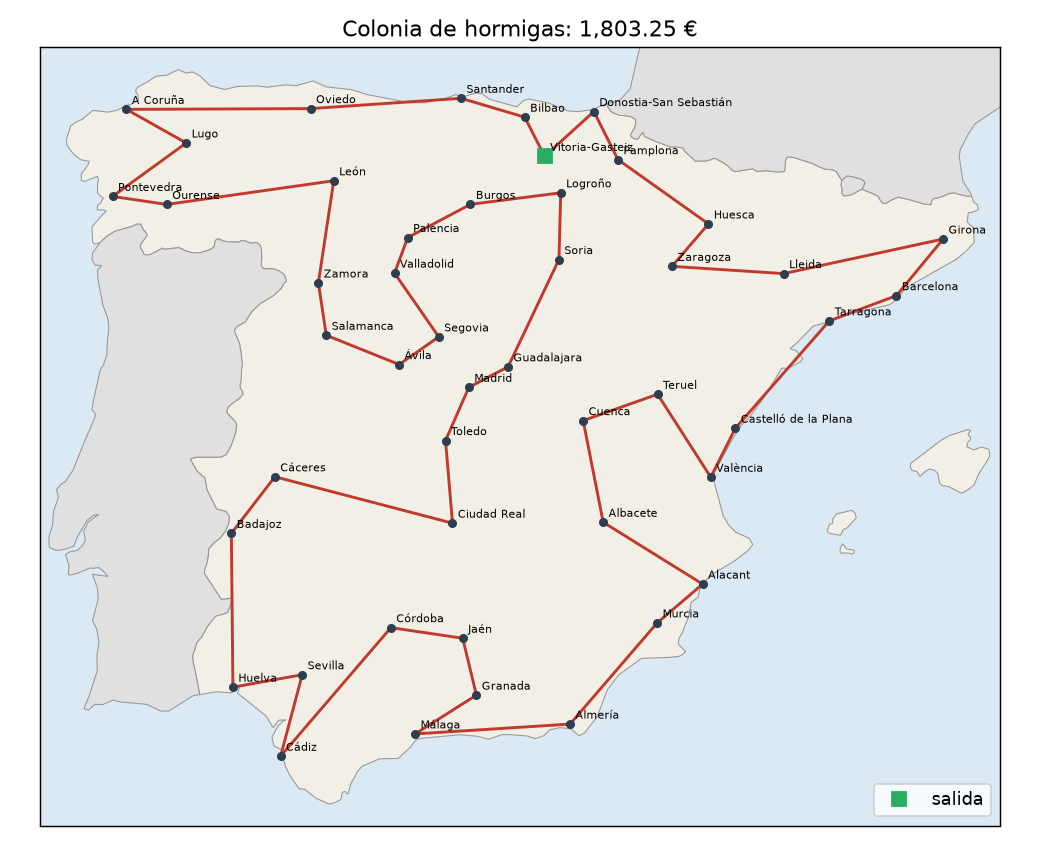
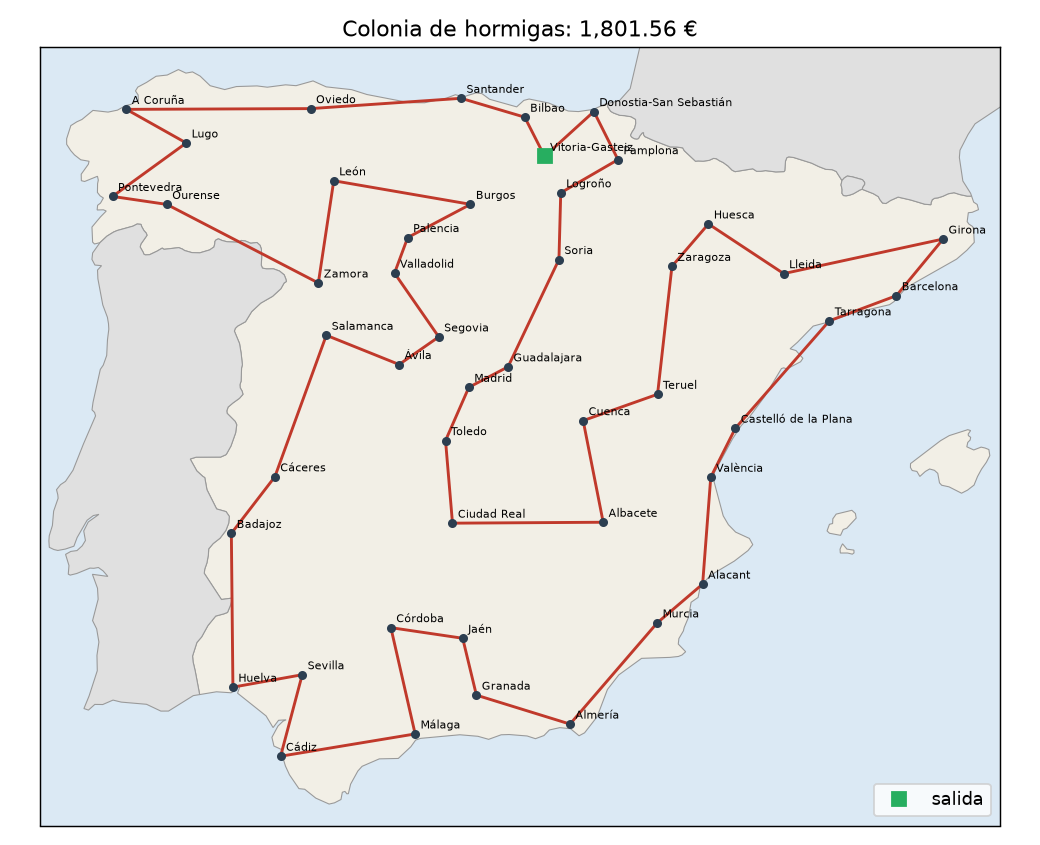
Resultados de la parte 2 con los peajes verificados

diff --git a/resultados/parte2/valor_hora.md b/resultados/parte2/valor_hora.md
@@ -1,25 +1,25 @@
 | Valor hora (€/h) | km | horas | peajes (€) | combustible (€) | costo total (€) | aristas distintas |
 |---|---|---|---|---|---|---|
-| 0 | 6,379.3 | 80.75 | 22.79 | 567.53 | 590.32 | 0 |
-| 2.5 | 6,379.3 | 80.75 | 22.79 | 567.53 | 792.19 | 0 |
-| 5 | 6,379.3 | 80.75 | 22.79 | 567.53 | 994.05 | 0 |
-| 7.5 | 6,416.6 | 79.85 | 26.01 | 570.85 | 1,195.73 | 10 |
-| 10 | 6,335.4 | 79.52 | 36.08 | 563.62 | 1,394.91 | 10 |
-| 15 | 6,335.4 | 79.52 | 36.08 | 563.62 | 1,792.51 | 10 |
-| 20 | 6,242.3 | 78.32 | 67.66 | 555.34 | 2,189.49 | 15 |
-| 25 | 6,242.3 | 78.32 | 67.66 | 555.34 | 2,581.11 | 15 |
-| 30 | 6,247.0 | 78.05 | 74.97 | 555.76 | 2,972.24 | 15 |
-| 40 | 6,247.0 | 78.05 | 74.97 | 555.76 | 3,752.74 | 15 |
-| 50 | 6,247.0 | 78.05 | 74.97 | 555.76 | 4,533.25 | 15 |
-| 75 | 6,247.0 | 78.05 | 74.97 | 555.76 | 6,484.51 | 15 |
-| 100 | 6,247.0 | 78.05 | 74.97 | 555.76 | 8,435.77 | 15 |
-| 150 | 6,205.3 | 77.96 | 90.45 | 552.05 | 12,336.12 | 18 |
-| 200 | 6,205.3 | 77.96 | 90.45 | 552.05 | 16,234.0 | 18 |
+| 0 | 6,463.9 | 82.03 | 21.73 | 575.05 | 596.78 | 0 |
+| 2.5 | 6,363.4 | 80.27 | 31.56 | 566.11 | 798.36 | 14 |
+| 5 | 6,363.4 | 80.27 | 31.56 | 566.11 | 999.04 | 14 |
+| 7.5 | 6,363.4 | 80.27 | 31.56 | 566.11 | 1,199.72 | 14 |
+| 10 | 6,363.4 | 80.27 | 31.56 | 566.11 | 1,400.41 | 14 |
+| 15 | 6,315.5 | 79.3 | 48.48 | 561.85 | 1,799.77 | 13 |
+| 20 | 6,242.3 | 78.32 | 69.83 | 555.34 | 2,191.66 | 17 |
+| 25 | 6,242.3 | 78.32 | 69.83 | 555.34 | 2,583.29 | 17 |
+| 30 | 6,247.0 | 78.05 | 77.2 | 555.76 | 2,974.47 | 17 |
+| 40 | 6,247.0 | 78.05 | 77.2 | 555.76 | 3,754.98 | 17 |
+| 50 | 6,247.0 | 78.05 | 77.2 | 555.76 | 4,535.48 | 17 |
+| 75 | 6,247.0 | 78.05 | 77.2 | 555.76 | 6,486.74 | 17 |
+| 100 | 6,247.0 | 78.05 | 77.2 | 555.76 | 8,438.0 | 17 |
+| 150 | 6,205.3 | 77.96 | 94.74 | 552.05 | 12,340.41 | 19 |
+| 200 | 6,205.3 | 77.96 | 94.74 | 552.05 | 16,238.29 | 19 |
 
 Cambios de ruta (cruce exacto de las rectas de costo):
 
-- Entre h = 5 y h = 7.5 €/h: la ruta cambia en h* ≈ 7.30 €/h (ahorra 0.90 h y gasta 6.54 € más en peajes y combustible)
-- Entre h = 7.5 y h = 10 €/h: la ruta cambia en h* ≈ 8.65 €/h (ahorra 0.33 h y gasta 2.85 € más en peajes y combustible)
-- Entre h = 15 y h = 20 €/h: la ruta cambia en h* ≈ 19.48 €/h (ahorra 1.20 h y gasta 23.29 € más en peajes y combustible)
-- Entre h = 25 y h = 30 €/h: la ruta cambia en h* ≈ 28.20 €/h (ahorra 0.27 h y gasta 7.73 € más en peajes y combustible)
-- Entre h = 100 y h = 150 €/h: la ruta cambia en h* ≈ 126.68 €/h (ahorra 0.09 h y gasta 11.77 € más en peajes y combustible)
+- Entre h = 0 y h = 2.5 €/h: la ruta cambia en h* ≈ 0.51 €/h (ahorra 1.75 h y gasta 0.89 € más en peajes y combustible)
+- Entre h = 10 y h = 15 €/h: la ruta cambia en h* ≈ 12.95 €/h (ahorra 0.98 h y gasta 12.66 € más en peajes y combustible)
+- Entre h = 15 y h = 20 €/h: la ruta cambia en h* ≈ 15.28 €/h (ahorra 0.97 h y gasta 14.85 € más en peajes y combustible)
+- Entre h = 25 y h = 30 €/h: la ruta cambia en h* ≈ 28.42 €/h (ahorra 0.27 h y gasta 7.78 € más en peajes y combustible)
+- Entre h = 100 y h = 150 €/h: la ruta cambia en h* ≈ 148.85 €/h (ahorra 0.09 h y gasta 13.83 € más en peajes y combustible)

diff --git a/resultados/parte2/resumen_aco.md b/resultados/parte2/resumen_aco.md
@@ -2,17 +2,17 @@
 
 - Valor de la hora: 15.00 €/h
 - Vehículo: SEAT León 2.0 TDI 85 kW (115 CV), 5 puertas, 2024 (4.6 l/100 km, 1.934 €/l)
-- Tiempo de cómputo: 3.2 s
+- Tiempo de cómputo: 5.3 s
 
 | Concepto | Valor |
 |---|---|
-| Distancia total | 6,379.4 km |
-| Tiempo de conducción | 80.63 h |
-| Costo del tiempo | 1,209.50 € |
-| Peajes | 26.22 € |
-| Combustible | 567.53 € |
-| **Costo total** | **1,803.25 €** |
+| Distancia total | 6,372.4 km |
+| Tiempo de conducción | 79.32 h |
+| Costo del tiempo | 1,189.85 € |
+| Peajes | 44.80 € |
+| Combustible | 566.92 € |
+| **Costo total** | **1,801.56 €** |
 
 Orden del recorrido:
 
-Vitoria-Gasteiz → Bilbao → Santander → Oviedo → A Coruña → Lugo → Pontevedra → Ourense → León → Zamora → Salamanca → Ávila → Segovia → Valladolid → Palencia → Burgos → Logroño → Soria → Guadalajara → Madrid → Toledo → Ciudad Real → Cáceres → Badajoz → Huelva → Sevilla → Cádiz → Córdoba → Jaén → Granada → Málaga → Almería → Murcia → Alacant → Albacete → Cuenca → Teruel → València → Castelló de la Plana → Tarragona → Barcelona → Girona → Lleida → Zaragoza → Huesca → Pamplona → Donostia-San Sebastián → Vitoria-Gasteiz
+Vitoria-Gasteiz → Donostia-San Sebastián → Pamplona → Logroño → Soria → Guadalajara → Madrid → Toledo → Ciudad Real → Albacete → Cuenca → Teruel → Zaragoza → Huesca → Lleida → Girona → Barcelona → Tarragona → Castelló de la Plana → València → Alacant → Murcia → Almería → Granada → Jaén → Córdoba → Málaga → Cádiz → Sevilla → Huelva → Badajoz → Cáceres → Salamanca → Ávila → Segovia → Valladolid → Palencia → Burgos → León → Zamora → Ourense → Pontevedra → Lugo → A Coruña → Oviedo → Santander → Bilbao → Vitoria-Gasteiz

diff --git a/resultados/parte2/sin_2opt/resumen_aco.md b/resultados/parte2/sin_2opt/resumen_aco.md
@@ -2,17 +2,17 @@
 
 - Valor de la hora: 15.00 €/h
 - Vehículo: SEAT León 2.0 TDI 85 kW (115 CV), 5 puertas, 2024 (4.6 l/100 km, 1.934 €/l)
-- Tiempo de cómputo: 2.8 s
+- Tiempo de cómputo: 4.8 s
 
 | Concepto | Valor |
 |---|---|
-| Distancia total | 6,583.0 km |
-| Tiempo de conducción | 82.02 h |
-| Costo del tiempo | 1,230.36 € |
-| Peajes | 67.39 € |
-| Combustible | 585.65 € |
-| **Costo total** | **1,883.39 €** |
+| Distancia total | 6,663.9 km |
+| Tiempo de conducción | 82.12 h |
+| Costo del tiempo | 1,231.79 € |
+| Peajes | 97.99 € |
+| Combustible | 592.85 € |
+| **Costo total** | **1,922.63 €** |
 
 Orden del recorrido:
 
-Zamora → Salamanca → Ávila → Segovia → Valladolid → Palencia → Burgos → Vitoria-Gasteiz → Logroño → Soria → Guadalajara → Madrid → Toledo → Ciudad Real → Badajoz → Cáceres → Cádiz → Sevilla → Huelva → Córdoba → Jaén → Granada → Málaga → Almería → Murcia → Alacant → Albacete → Cuenca → Teruel → València → Castelló de la Plana → Girona → Barcelona → Tarragona → Lleida → Huesca → Zaragoza → Pamplona → Donostia-San Sebastián → Bilbao → Santander → Oviedo → León → A Coruña → Lugo → Ourense → Pontevedra → Zamora
+Oviedo → León → Palencia → Burgos → Vitoria-Gasteiz → Bilbao → Santander → Donostia-San Sebastián → Pamplona → Logroño → Soria → Guadalajara → Madrid → Toledo → Ciudad Real → Albacete → Cuenca → Teruel → Zaragoza → Huesca → Lleida → Tarragona → Barcelona → Girona → Castelló de la Plana → València → Alacant → Murcia → Almería → Granada → Jaén → Córdoba → Málaga → Cádiz → Sevilla → Huelva → Badajoz → Cáceres → Salamanca → Zamora → Valladolid → Segovia → Ávila → Ourense → Lugo → A Coruña → Pontevedra → Oviedo

diff --git a/resultados/parte2/sin_2opt/resumen_ga.md b/resultados/parte2/sin_2opt/resumen_ga.md
@@ -2,17 +2,17 @@
 
 - Valor de la hora: 15.00 €/h
 - Vehículo: SEAT León 2.0 TDI 85 kW (115 CV), 5 puertas, 2024 (4.6 l/100 km, 1.934 €/l)
-- Tiempo de cómputo: 1.4 s
+- Tiempo de cómputo: 2.2 s
 
 | Concepto | Valor |
 |---|---|
-| Distancia total | 6,986.8 km |
-| Tiempo de conducción | 88.47 h |
-| Costo del tiempo | 1,327.09 € |
-| Peajes | 38.13 € |
-| Combustible | 621.58 € |
-| **Costo total** | **1,986.80 €** |
+| Distancia total | 6,959.8 km |
+| Tiempo de conducción | 87.53 h |
+| Costo del tiempo | 1,312.93 € |
+| Peajes | 67.05 € |
+| Combustible | 619.17 € |
+| **Costo total** | **1,999.15 €** |
 
 Orden del recorrido:
 
-Cuenca → Guadalajara → Madrid → Valladolid → Palencia → León → Burgos → Vitoria-Gasteiz → Logroño → Soria → Segovia → Ávila → Toledo → Ciudad Real → Jaén → Almería → Málaga → Granada → Córdoba → Cádiz → Huelva → Sevilla → Badajoz → Cáceres → Salamanca → Zamora → Ourense → Pontevedra → Lugo → A Coruña → Oviedo → Santander → Bilbao → Donostia-San Sebastián → Pamplona → Huesca → Tarragona → Girona → Barcelona → Lleida → Zaragoza → Teruel → València → Castelló de la Plana → Alacant → Murcia → Albacete → Cuenca
+Toledo → Madrid → Guadalajara → Segovia → Ávila → Palencia → Valladolid → León → Burgos → Santander → Oviedo → Lugo → A Coruña → Pontevedra → Ourense → Zamora → Salamanca → Cáceres → Badajoz → Huelva → Cádiz → Sevilla → Córdoba → Granada → Jaén → Málaga → Almería → Murcia → Alacant → Albacete → València → Castelló de la Plana → Tarragona → Girona → Barcelona → Lleida → Pamplona → Donostia-San Sebastián → Bilbao → Vitoria-Gasteiz → Logroño → Soria → Zaragoza → Huesca → Teruel → Cuenca → Ciudad Real → Toledo

diff --git a/resultados/parte2/resumen_ga.md b/resultados/parte2/resumen_ga.md
@@ -2,17 +2,17 @@
 
 - Valor de la hora: 15.00 €/h
 - Vehículo: SEAT León 2.0 TDI 85 kW (115 CV), 5 puertas, 2024 (4.6 l/100 km, 1.934 €/l)
-- Tiempo de cómputo: 3.9 s
+- Tiempo de cómputo: 6.6 s
 
 | Concepto | Valor |
 |---|---|
-| Distancia total | 6,335.4 km |
-| Tiempo de conducción | 79.52 h |
-| Costo del tiempo | 1,192.80 € |
-| Peajes | 36.08 € |
-| Combustible | 563.62 € |
-| **Costo total** | **1,792.51 €** |
+| Distancia total | 6,263.9 km |
+| Tiempo de conducción | 78.83 h |
+| Costo del tiempo | 1,182.44 € |
+| Peajes | 60.27 € |
+| Combustible | 557.26 € |
+| **Costo total** | **1,799.97 €** |
 
 Orden del recorrido:
 
-Bilbao → Santander → Oviedo → A Coruña → Lugo → Pontevedra → Ourense → Zamora → León → Burgos → Palencia → Valladolid → Segovia → Ávila → Salamanca → Cáceres → Badajoz → Huelva → Sevilla → Cádiz → Córdoba → Jaén → Granada → Málaga → Almería → Murcia → Alacant → Albacete → Ciudad Real → Toledo → Madrid → Guadalajara → Cuenca → Teruel → València → Castelló de la Plana → Tarragona → Barcelona → Girona → Lleida → Huesca → Zaragoza → Soria → Logroño → Pamplona → Donostia-San Sebastián → Vitoria-Gasteiz → Bilbao
+Jaén → Córdoba → Ciudad Real → Albacete → Murcia → Alacant → València → Castelló de la Plana → Tarragona → Barcelona → Girona → Lleida → Huesca → Zaragoza → Teruel → Cuenca → Guadalajara → Madrid → Toledo → Ávila → Segovia → Valladolid → Palencia → Burgos → Soria → Logroño → Pamplona → Donostia-San Sebastián → Vitoria-Gasteiz → Bilbao → Santander → Oviedo → A Coruña → Pontevedra → Ourense → Lugo → León → Zamora → Salamanca → Cáceres → Badajoz → Huelva → Sevilla → Cádiz → Málaga → Almería → Granada → Jaén

diff --git a/resultados/parte2/comparacion.md b/resultados/parte2/comparacion.md
@@ -1,8 +1,8 @@
-Valor de la hora: 15 €/h. Corridas: 10. Mejor costo conocido: 1,792.51 €
+Valor de la hora: 15 €/h. Corridas: 10. Mejor costo conocido: 1,799.54 €
 
 | Configuración | Media (€) | Desv. (€) | Mejor (€) | Peor (€) | Brecha media | Veces que llega al mejor | s/corrida |
 |---|---|---|---|---|---|---|---|
-| ACO + 2-opt | 1,795.41 | 4.16 | 1,792.51 | 1,803.25 | 0.16 % | 4/10 | 3.2 |
-| ACO sin 2-opt | 1,876.73 | 18.92 | 1,841.46 | 1,899.88 | 4.70 % | 0/10 | 2.9 |
-| GA + 2-opt | 1,794.15 | 2.64 | 1,792.51 | 1,797.96 | 0.09 % | 7/10 | 4.0 |
-| GA sin 2-opt | 1,985.77 | 71.55 | 1,862.48 | 2,077.23 | 10.78 % | 0/10 | 1.4 |
+| ACO + 2-opt | 1,800.74 | 1.75 | 1,799.54 | 1,804.53 | 0.07 % | 6/10 | 3.9 |
+| ACO sin 2-opt | 1,895.34 | 20.86 | 1,861.94 | 1,922.63 | 5.32 % | 0/10 | 3.9 |
+| GA + 2-opt | 1,799.63 | 0.18 | 1,799.54 | 1,799.97 | 0.00 % | 8/10 | 5.0 |
+| GA sin 2-opt | 2,007.82 | 46.72 | 1,939.57 | 2,096.52 | 11.57 % | 0/10 | 1.7 |
